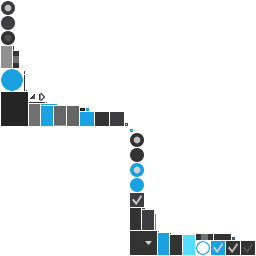
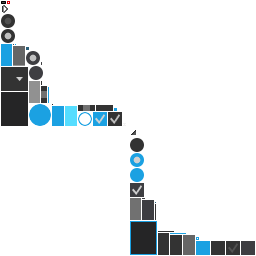
VisWindow can be created with border

Changed region(s): [[0.0, 0.0, 0.5, 0.5], [0.5, 0.5, 0.9375, 1.0]]

diff --git a/UI/src/pl/kotcrab/vis/ui/widget/VisWindow.java b/UI/src/pl/kotcrab/vis/ui/widget/VisWindow.java
@@ -25,7 +25,11 @@ public class VisWindow extends Window {
 	private Stage parent;
 
 	public VisWindow (Stage parent, String title) {
-		super(title, VisUI.skin);
+		this(parent, title, true);
+	}
+
+	public VisWindow (Stage parent, String title, boolean showBorder) {
+		super(title, VisUI.skin, showBorder ? "default" : "noborder");
 		this.parent = parent;
 	}
 
